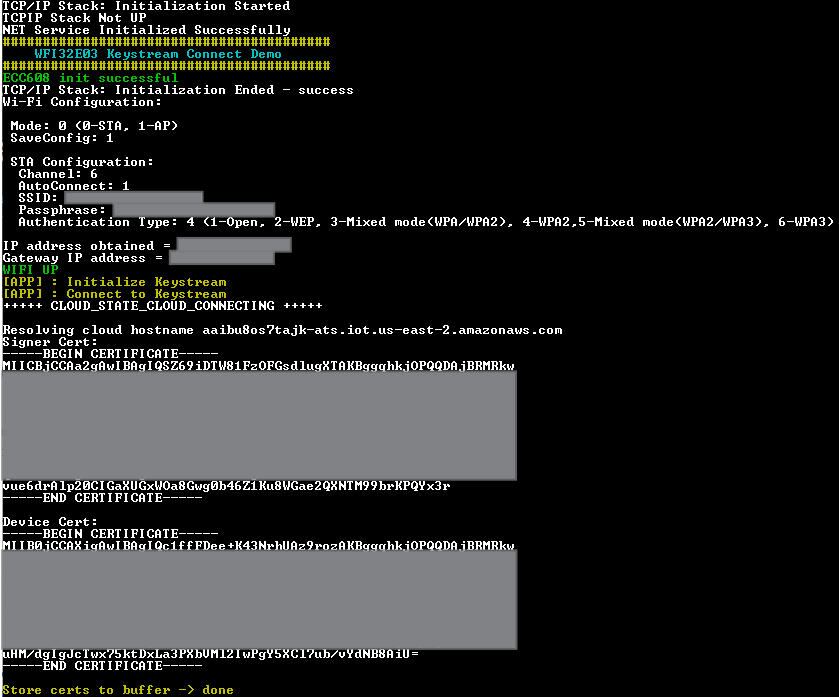
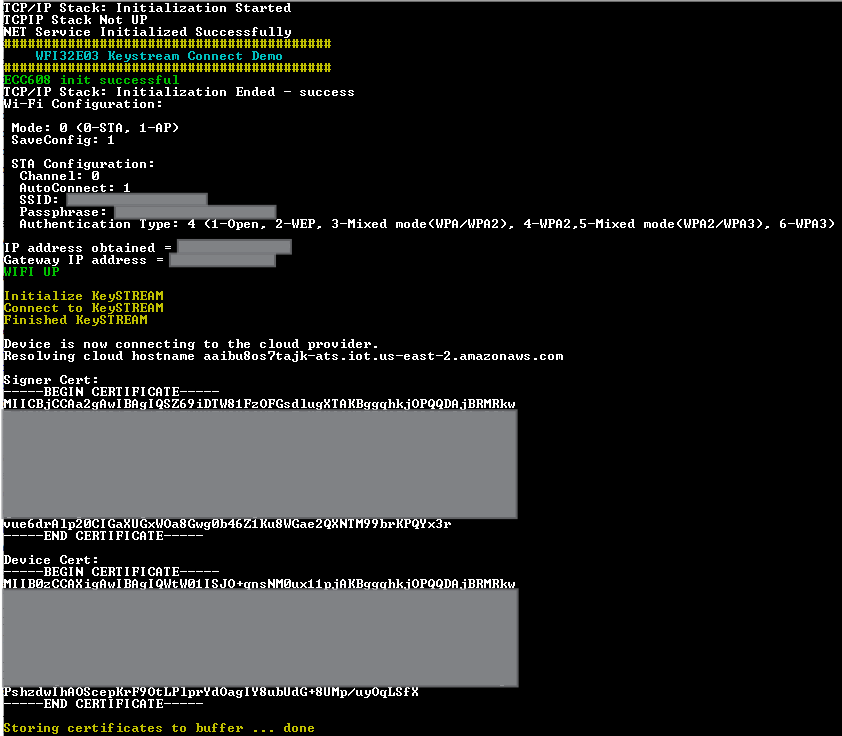
added link to updated/new images

Changed region(s): [[0.0, 0.0, 0.9917, 0.8135], [0.0, 0.9039, 0.4958, 1.0], [0.5888, 0.9039, 0.6198, 0.934]]

diff --git a/README.md b/README.md
@@ -166,7 +166,7 @@ This application repository should be cloned/downloaded to perform the following
 - Configure the on-board LEDs.<br>
 <img src="images/Led_Configuration.png" width=700 style="display: block; margin: auto; float: center"><br>
 - Clean and build the project. To run the project, select "Make and program device" button.<br><br>
-<b>Note:</b> Anytime changing the settings by means of the MCC <i>Project Graph</i> press button <i>Generate</i>, located within the <i>Project Resources</i> window, to apply that changes into the code. Take special care when merging with existing code.
+<b>Note:</b> Anytime changing the settings by means of the MCC <i>Project Graph</i> press button <i>Generate</i>, located within the <i>Project Resources</i> window, to apply that changes into the code. Take special care when merging with existing code.<br>
   
 [TOP](#contents)
 
@@ -174,6 +174,7 @@ This application repository should be cloned/downloaded to perform the following
 
 The application prints the following information to the connected terminal.<br>
 <img src="images/TerminalOut_KeyStream.png" style="width: 500; display: left; margin: auto;">
+<img src="images/TerminalOut_KeyStream_Refurbed.png" style="width: 500; display: left; margin: auto;">
 <img src="images/TerminalOut_MQTT.png" style="width: 500; height:415; display: right; margin: auto"><br>
 
 [TOP](#contents)
